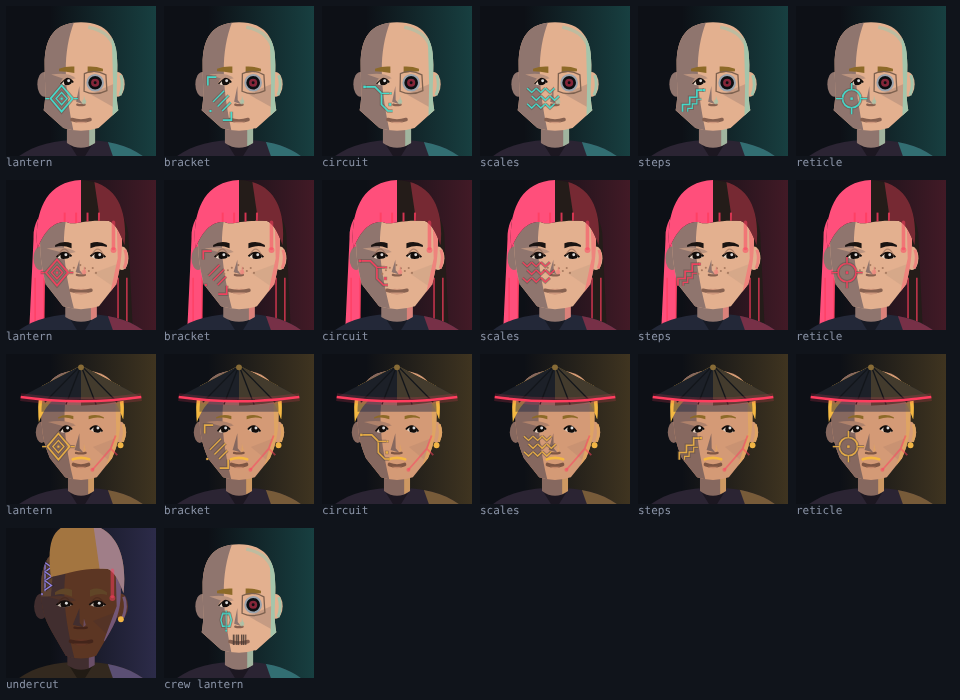
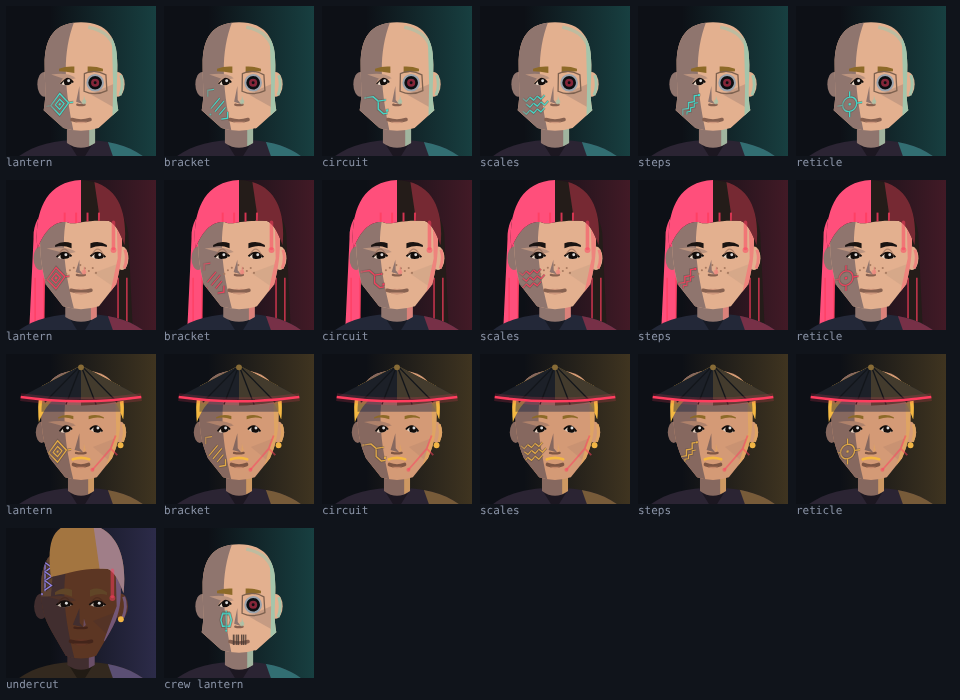
Tattoos: smaller, set on the cheek, wrapped and clipped to the face

diff --git a/src/ui/art.js b/src/ui/art.js
@@ -541,26 +541,31 @@ function inkPen(c) {
   const dot = (x, y, r = 0.5) => `<rect x="${x - r}" y="${y - r}" width="${2 * r}" height="${2 * r}" fill="${base}" opacity="0.5"/><rect x="${x - r * 0.7}" y="${y - r * 0.7}" width="${r * 1.4}" height="${r * 1.4}" fill="${c.light}" opacity="0.9"/>`;
   return { line, dot };
 }
-/** One tattoo design on the shadow-side cheek (L is the face's left edge). */
-function tattooArt(look, c, L) {
+/** One tattoo design on the shadow-side cheek. Drawn small round its own centre, then set on the cheek: squeezed and
+ *  tilted as the cheek turns away, faded towards the face's edge, and clipped to the head so it never leaves the face. */
+function tattooArt(look, c, { L, a, id }) {
   const { line, dot } = inkPen(c);
-  const x = L + 5.2, y = 34.4;   // the patch's centre
+  const ex = 32 - (a?.eyeGap ?? 4.6), ey = a?.eyeY ?? 29;
+  const cx = (L + ex) / 2 + 1.2, cy = ey + 6.6;           // low on the cheek: clear of the eye, the nose and the mouth
   const art = {
-    lantern: () => line(`M${x} ${y - 4}L${x + 3.4} ${y}L${x} ${y + 4}L${x - 3.4} ${y}Z`) + line(`M${x} ${y - 1.9}L${x + 1.7} ${y}L${x} ${y + 1.9}L${x - 1.7} ${y}Z`, 0.4) + dot(x, y, 0.5) + line(`M${x - 5} ${y}h1.2M${x + 3.8} ${y}h1.2`, 0.4),
-    bracket: () => line(`M${L + 1.6} ${y - 4}v-2.6h2.6`) + line(`M${L + 8.8} ${y + 4}v2.6h-2.6`) + line(`M${L + 3.2} ${y + 1}l3.4 -3.4M${L + 4.6} ${y + 2.4}l3.4 -3.4M${L + 6} ${y + 3.8}l2.6 -2.6`, 0.4) + dot(L + 2.4, y + 3.8, 0.45),
-    circuit: () => line(`M${L + 1.2} ${y - 3.6}h3.2l2 2v3.4l2 2h1.4`) + line(`M${L + 6.4} ${y - 1.6}h2.4`, 0.4) + dot(L + 1.2, y - 3.6, 0.55) + dot(L + 9, y + 1.8, 0.55) + dot(L + 9.2, y - 1.6, 0.4),
-    scales: () => [0, 1, 2].map((r) => [0, 1, 2].map((k) => line(`M${L + 2.6 + k * 2.8 + (r % 2) * 1.4} ${y - 3.2 + r * 2.4}l1.4 1.3l1.4 -1.3`, 0.4)).join('')).join(''),
-    steps: () => line(`M${L + 1.8} ${y + 4}v-2.2h2.2v-2.2h2.2v-2.2h2.2`) + line(`M${L + 3.4} ${y + 4}v-1h1.4v-1.4h1.4v-1.4h1.4`, 0.35) + dot(L + 8.4, y - 2.6, 0.5),
-    reticle: () => `<circle cx="${x}" cy="${y}" r="2.8" stroke="${mix(c.skin, '#0a1620', 0.62)}" stroke-width="1.1" opacity="0.5" fill="none"/><circle cx="${x}" cy="${y}" r="2.8" stroke="${c.light}" stroke-width="0.5" opacity="0.88" fill="none"/>` + line(`M${x} ${y - 4.8}v2M${x} ${y + 2.8}v2M${x - 4.8} ${y}h2M${x + 2.8} ${y}h2`, 0.45) + dot(x, y, 0.55),
+    lantern: () => line('M0 -4L3.4 0L0 4L-3.4 0Z') + line('M0 -1.9L1.7 0L0 1.9L-1.7 0Z', 0.45) + dot(0, 0, 0.55) + line('M-5.2 0h1.4M3.8 0h1.4', 0.45),
+    bracket: () => line('M-3.8 -3.4v-2.4h2.4') + line('M3.8 3.4v2.4h-2.4') + line('M-2.6 1.2l3.4 -3.4M-1 2.6l3.4 -3.4M0.6 4l2.4 -2.4', 0.45) + dot(-2.8, 3.4, 0.5),
+    circuit: () => line('M-4 -3h3l2 2v3l2 2h1.6') + line('M1 -1h2.4', 0.45) + dot(-4, -3, 0.6) + dot(4.4, 3, 0.6) + dot(3.6, -1, 0.45),
+    scales: () => [0, 1, 2].map((r) => [0, 1, 2].map((k) => line(`M${-4.2 + k * 2.8 + (r % 2) * 1.4} ${-2.8 + r * 2.4}l1.4 1.3l1.4 -1.3`, 0.45)).join('')).join(''),
+    steps: () => line('M-3.4 3.6v-2.2h2.2v-2.2h2.2v-2.2h2.2') + line('M-1.8 3.6v-1h1.4v-1.4h1.4v-1.4h1.4', 0.4) + dot(2.8, -3, 0.55),
+    reticle: () => `<circle r="2.7" stroke="${mix(c.skin, '#0a1620', 0.62)}" stroke-width="1.1" opacity="0.5" fill="none"/><circle r="2.7" stroke="${c.light}" stroke-width="0.5" opacity="0.88" fill="none"/>` + line('M0 -4.8v2M0 2.8v2M-4.8 0h2M2.8 0h2', 0.5) + dot(0, 0, 0.6),
   }[look];
-  return `<g fill="none" stroke-linejoin="miter" stroke-linecap="butt">${art ? art() : ''}</g>`;
+  const fade = `${id}kf`, mask = `${id}km`;
+  return `<defs><linearGradient id="${fade}" gradientUnits="userSpaceOnUse" x1="${L}" x2="${L + 4}" y1="0" y2="0"><stop offset="0" stop-color="#000"/><stop offset="1" stop-color="#fff"/></linearGradient>
+    <mask id="${mask}" maskUnits="userSpaceOnUse" x="0" y="0" width="64" height="64"><rect width="64" height="64" fill="url(#${fade})"/></mask></defs>
+    <g clip-path="url(#${id}h)"><g mask="url(#${mask})"><g transform="translate(${cx} ${cy}) skewY(-9) scale(0.8 0.82)" fill="none" stroke-linejoin="miter" stroke-linecap="butt">${art ? art() : ''}</g></g></g>`;
 }
 
 /** Tattoos, barcodes and scars. Ink is a thin neon so it shows on every skin tone. */
-function markings(f, c, g, id, op, ink) {
+function markings(f, c, g, id, op, ink, a) {
   const w = g.w, L = 32 - w;
   switch (f.marking) {
-    case 'tattoo': return tattooArt(ink ?? tattooLook(op), c, L);
+    case 'tattoo': return tattooArt(ink ?? tattooLook(op), c, { L, a, id });
     // On the chin, centred, and kept inside the face (owner, 2026-10-29: it hung off the jaw).
     case 'barcode': return `<g fill="${mix(c.skin, '#05080c', 0.7)}" opacity="0.85" clip-path="url(#${id}h)">${[0, 0.9, 1.4, 2.5, 3, 3.8].map((dx, i) => `<rect x="${30.1 + dx}" y="${g.chin - 5.2}" width="${i % 2 ? 0.35 : 0.55}" height="3.2"/>`).join('')}</g>`;
     case 'scar': return `<path d="M${L + 2.5} 22 L${L + 4} 24 L${L + 3.2} 25.2 L${L + 5} 28" stroke="${mix(c.skin, '#ffd5d5', 0.35)}" stroke-width="0.75" fill="none" stroke-linejoin="bevel"/>`;
@@ -858,7 +863,7 @@ export function portrait(op, { size = 44, anatomy = true, wound = null, ink = nu
   ${eye(27.4, st.tired, c, st.expression)}${f.chrome === 'cybereye' || f.chrome === 'half' ? '' : eye(36.6, st.tired, c, st.expression)}
   ${browsAndMouth(st, c)}`}
   ${f.mask ? '' : a ? `<g transform="translate(0 ${(a.mouthY - 40).toFixed(2)})">${facialHairMarks(f, c, g, id)}</g>` : facialHairMarks(f, c, g, id)}
-  ${ink && f.marking !== 'tattoo' ? tattooArt(ink, c, 32 - w) : markings(f, c, g, id, op, ink)}
+  ${ink && f.marking !== 'tattoo' ? tattooArt(ink, c, { L: 32 - w, a, id }) : markings(f, c, g, id, op, ink, a)}
   ${a && tattooed && f.mask !== 'faceplate' ? crewMark(a, c) : ''}
   ${f.chrome === 'half' ? `<g clip-path="url(#${id}h)">${halfFacePlate(f, c, g)}</g>` : ''}
   ${f.mask ? maskMarks(f, c, g, st, id) : ''}

diff --git a/docs/screenshots/README.md b/docs/screenshots/README.md
@@ -22,7 +22,7 @@ Then add a row to the top of the table below and commit the folder with the chan
 
 | Date | Version | Commit | What's new on screen | Folder |
 | --- | --- | --- | --- | --- |
-| 2026-11-18 | Tattoos drawn properly | (this change) | Design-session capture (`scripts/preview-tattoos.mjs`): the six tattoo designs on three faces (lantern, bracket, circuit, scales, steps, reticle), the undercut's shaved-side ink, and the crew lantern (`tattoo-presets.png`). | `2026-11-18-tattoos/` |
+| 2026-11-18 | Tattoos drawn properly | (this change) | Design-session capture (`scripts/preview-tattoos.mjs`): the six tattoo designs on three faces (lantern, bracket, circuit, scales, steps, reticle), the undercut's shaved-side ink, and the crew lantern (`tattoo-presets.png`), and two faces large (`tattoo-closeup.png`): the designs are small, set low on the cheek clear of the eye and nose, tilted and faded as the cheek turns away, and clipped to the face. | `2026-11-18-tattoos/` |
 | 2026-11-18 | The bunk room matches the beds | (this change) | Design-session capture (`scripts/capture-bunk-room.mjs`): Old Town's build screen with a bunk room built, in the plain look (`plain-plan.png`, `plain-screen.png`) and the Hall art look (`hall-art-plan.png`, `hall-art-screen.png`). The room's three bunks are drawn like the hall's beds (pillow, blanket, ladder rung) instead of blank slabs. | `2026-11-18-bunk-room/` |
 | 2026-11-18 | A wound is a status badge | (this change) | The standard set. New on screen: a runner with an injury on a job map gets a small cut-corner badge on the token's top right (a red cross) instead of a bright yellow ring. The standard run has no injury (`14-watch-2.png` reads "Hurt 0"), so the wounded tokens are in their own close-up (`wounds-closeup.png`, from `scripts/preview-wounds.mjs`): a light injury on the left (outlined cross in a cut-corner square), a serious one on the right (solid square, with the ring). `wound-presets.png` (from `scripts/preview-wound-presets.mjs`) shows the new portrait wound presets on three faces: plaster, split brow, black eye, graze; gauze band, cheek pad, split lip; head wrap. | `2026-11-18-wound-plaster/` |
 | 2026-11-17 | The visual pass | (this change) | Design-session capture (`scripts/preview-livebattle.mjs --effect`): the Contagion arc leaping to a new host (`01`) and the host's ring flaring as it lands (`02`), the infection tick's flaring ring (`03`), the shield dome (`04`), the jam's broken signal arcs to the callers (`05`), and the way out's "The alarm is up" caption with the red map edge (`06`). Cropped to the map, 2x. | `2026-11-17-visual-pass/` |

diff --git a/docs/changelog/2026-11.md b/docs/changelog/2026-11.md
@@ -6,7 +6,7 @@ Part of the changelog indexed in `CHANGELOG.md`. Newest first; add new entries a
 - On the hall build plan (plain look) the bunk room was three big blank grey slabs beside the small cots. It now holds three cots in the beds' own look (pillow, blanket, frame), a little taller than a bed for the bunk above (`data/hallBuild.js bunkFits`). The Hall art look's bunk room (`ui/hallsprites.js`) had a pillow as a tall strip down each bunk; its bunks are now drawn in the bed's proportions, standing against the wall: pillow at the head, blue blanket, a ladder rung at the foot.
 
 ## 2026-11-18 · Tattoos drawn properly
-- Portrait tattoos were a triangle and two dashes, three marks on the shaved side and a tiny lantern: at small sizes they looked like scribbles. They are now six geometric designs (nested diamond, corner brackets, circuit trace, scale pattern, stepped line, reticle), one per runner fixed by their id, each drawn as dark ink under a neon line with square ends. The undercut's shaved side has stepped chevrons on a spine and the crew's lantern has a cap, ribs and a tassel (`ui/art.js tattooArt`, `inkPen`; sheet in `docs/screenshots/2026-11-18-tattoos/`).
+- Portrait tattoos were a triangle and two dashes, three marks on the shaved side and a tiny lantern: at small sizes they looked like scribbles. They are now six geometric designs (nested diamond, corner brackets, circuit trace, scale pattern, stepped line, reticle), one per runner fixed by their id, each drawn as dark ink under a neon line with square ends, small and low on the shadow cheek, tilted and faded towards the face's edge and clipped to the head so none can leave the face. The undercut's shaved side has stepped chevrons on a spine and the crew's lantern has a cap, ribs and a tassel (`ui/art.js tattooArt`, `inkPen`; sheet in `docs/screenshots/2026-11-18-tattoos/`).
 
 ## 2026-11-18 · A wound no longer looks like a power-up
 - On a job map, a runner who took a light injury had a bright sodium-yellow ring, which read as a bonus. It is now a small status badge on the token's top right (`siteplan.js markHurt`): an outlined red cross in a cut-corner square for a light injury, a solid red square with a white cross for a serious one, which also keeps its red ring. A first try, a plaster on the face, covered the face and was dropped.
